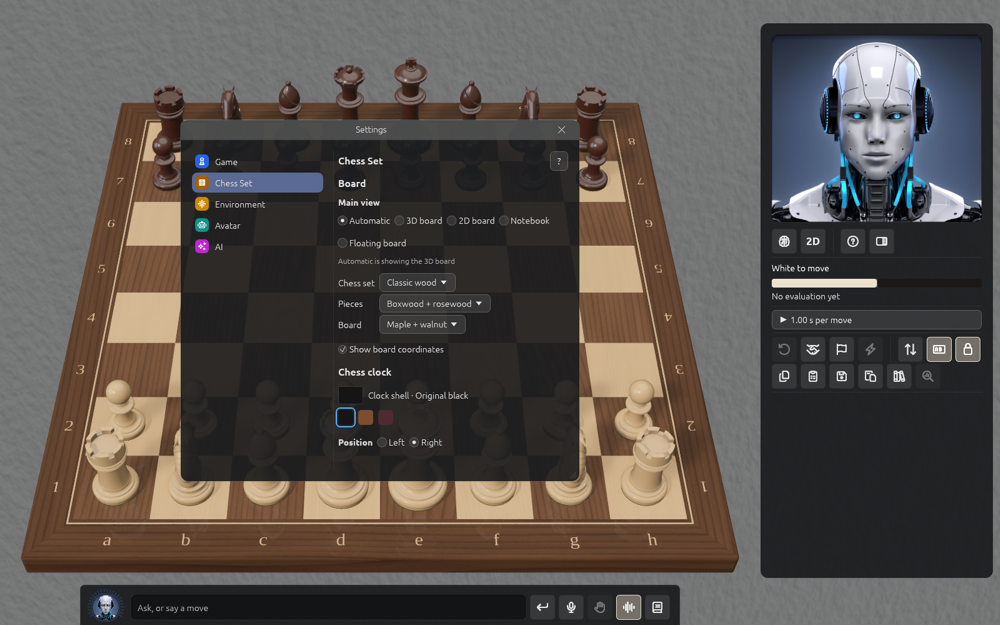
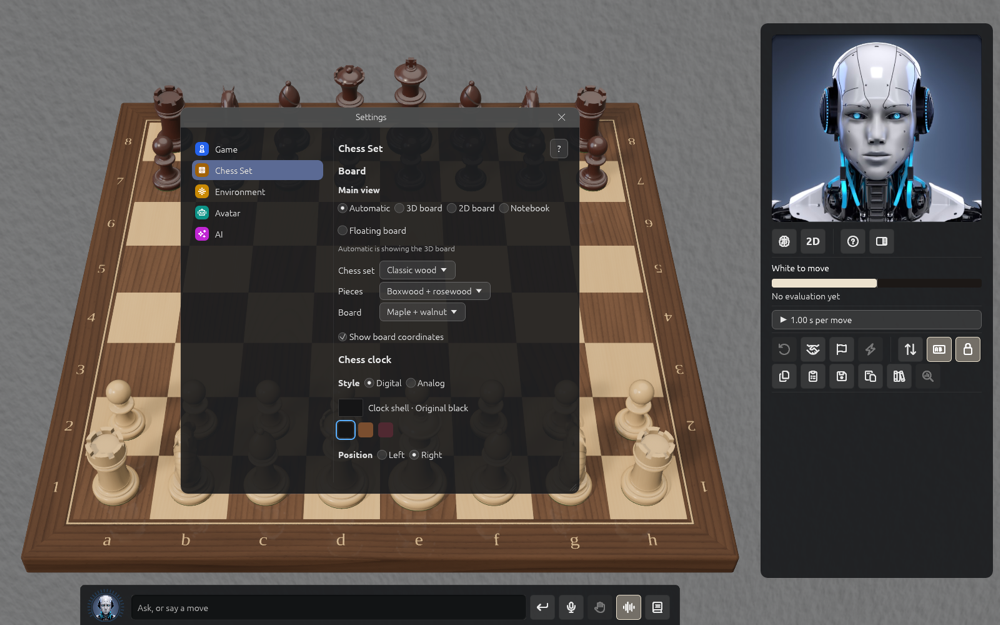
Playing: the wooden analog chess clock (cjus/chessgui#942)
Settings > Chess Set > Chess clock has a Style: Digital, or Analog, a
wooden clock with two dials whose hands, flags and buttons follow the game.
The Clocks section says how it reads, with a picture; the Settings page has
the Style row and its picture again.

Changed region(s): [[0.155, 0.152, 0.589, 0.7296], [0.155, 0.76, 0.589, 0.7904]]

diff --git a/book/src/playing.md b/book/src/playing.md
@@ -76,6 +76,21 @@ flag that falls at 0:00. It takes no clicks. You can also move it with **Setting
 On the 2D board there is no 3D clock; the panel's clocks are the clocks. In the Notebook, two
 sketched analog dials stand in for it (see [The Notebook](#the-notebook)).
 
+**The analog clock.** **Settings → Chess Set → Chess clock → Style** swaps the digital clock
+for a wooden one with two dials: choose **Analog**. Each dial shows its side's time left the
+old way, as the hands' way to 12 o'clock: a 5-minute game starts at 11:55, and the time runs
+out at 12. The hands sweep while that side's time runs, its small second hand too, and an
+increment turns them back. A red flag by the 11 is lifted by the minute hand in the last
+minutes of each hour and drops as the hand reaches 12; the drop with the hour hand at 12 ends
+the game. The buttons on top follow the game too: the side to move has its button up, and it
+goes down as that side's move is made and the clock is pressed. Before both sides have moved
+once, in a pause and after the game, both are up. The clock stands turned a little toward your
+side of the board, so that you can read its dials, and swings round when you flip the board. It
+takes more room than the digital clock, so the board is drawn a little smaller beside it. The
+panel's clocks show the exact figures, and Solrac remembers which clock you chose.
+
+![The wooden analog clock beside the board, turned toward the player: White's dial at 11:55 and Black's a few seconds from 12, its red flag lifted](images/analog-clock.png)
+
 When a flag falls the player loses on time, unless the other side couldn't have mated, which is a
 draw.
 

diff --git a/book/src/preferences.md b/book/src/preferences.md
@@ -127,9 +127,13 @@ Notebook, a note at the top of the page says what it leaves out and that it come
   dark squares' colour is also the colour of the border round the board.
 - **Show board coordinates**: the letters a–h and figures 1–8 round the board, on both boards,
   on to start. The **L** key and the panel's labels button switch them too.
-- **Chess clock** (3D board): the colour of the clock's shell. Pick it from the colour picker,
-  or click a swatch: **Original black** (the usual one), **Cognac** or **Burgundy**. **Reset**
-  appears once you change it.
+- **Style** (3D board): which chess clock stands beside the board in a game with a clock.
+  **Digital** is the usual one. **Analog** is a wooden clock with two dials, whose hands, flags
+  and buttons follow the game (see [Playing a game](playing.md)).
+- **Chess clock** (3D board, the digital clock): the colour of the clock's shell. Pick it from
+  the colour picker, or click a swatch: **Original black** (the usual one), **Cognac** or
+  **Burgundy**. **Reset** appears once you change it. The analog clock is its own wood, so the
+  row isn't shown for it.
 - **Position** (3D board): which side of the board the clock stands on, as you see the board
   from White's seat, **Left** or **Right**, Right to start. The menu bar has the same choice
   under **Settings → Clock Position**.
